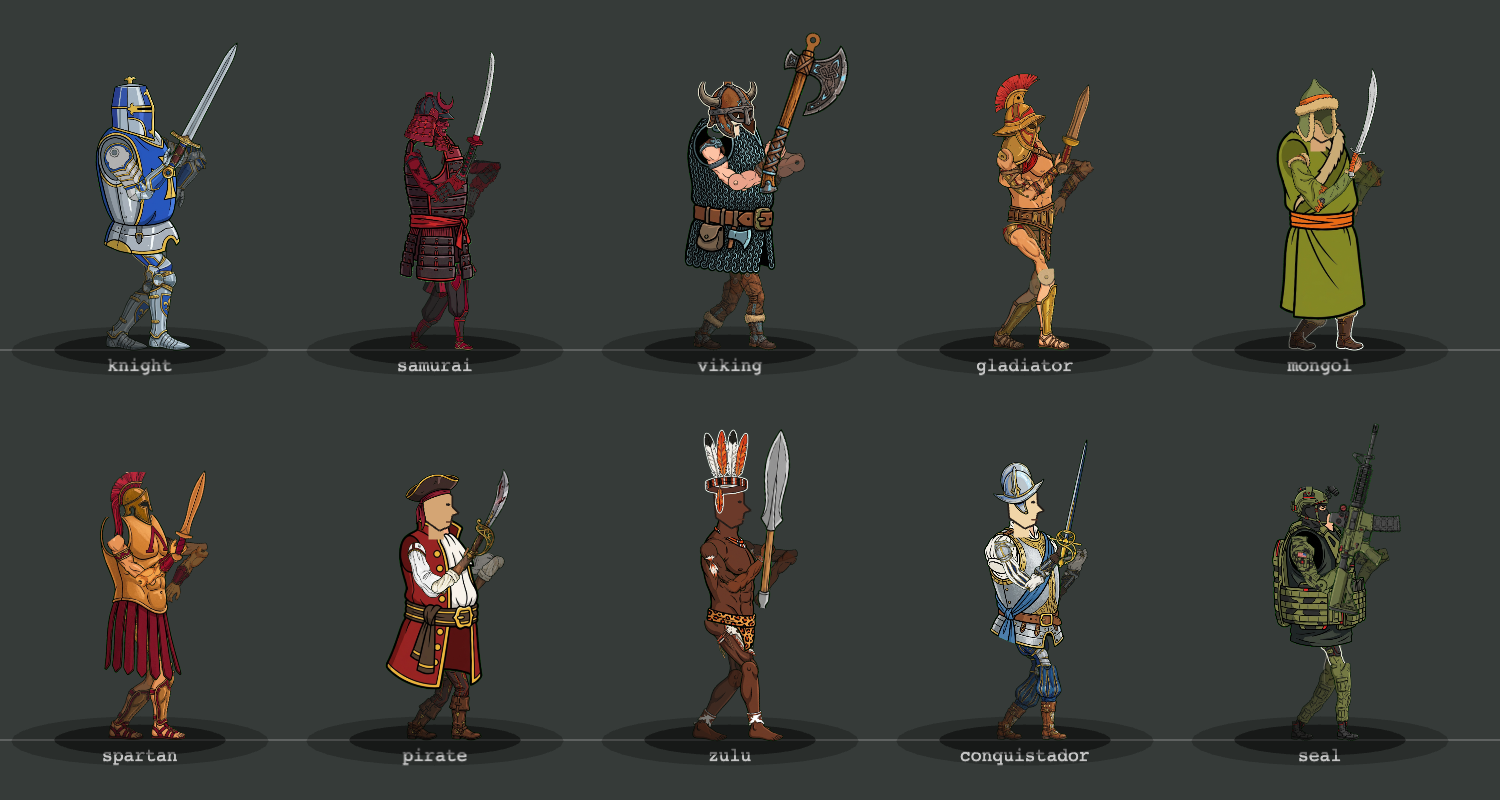
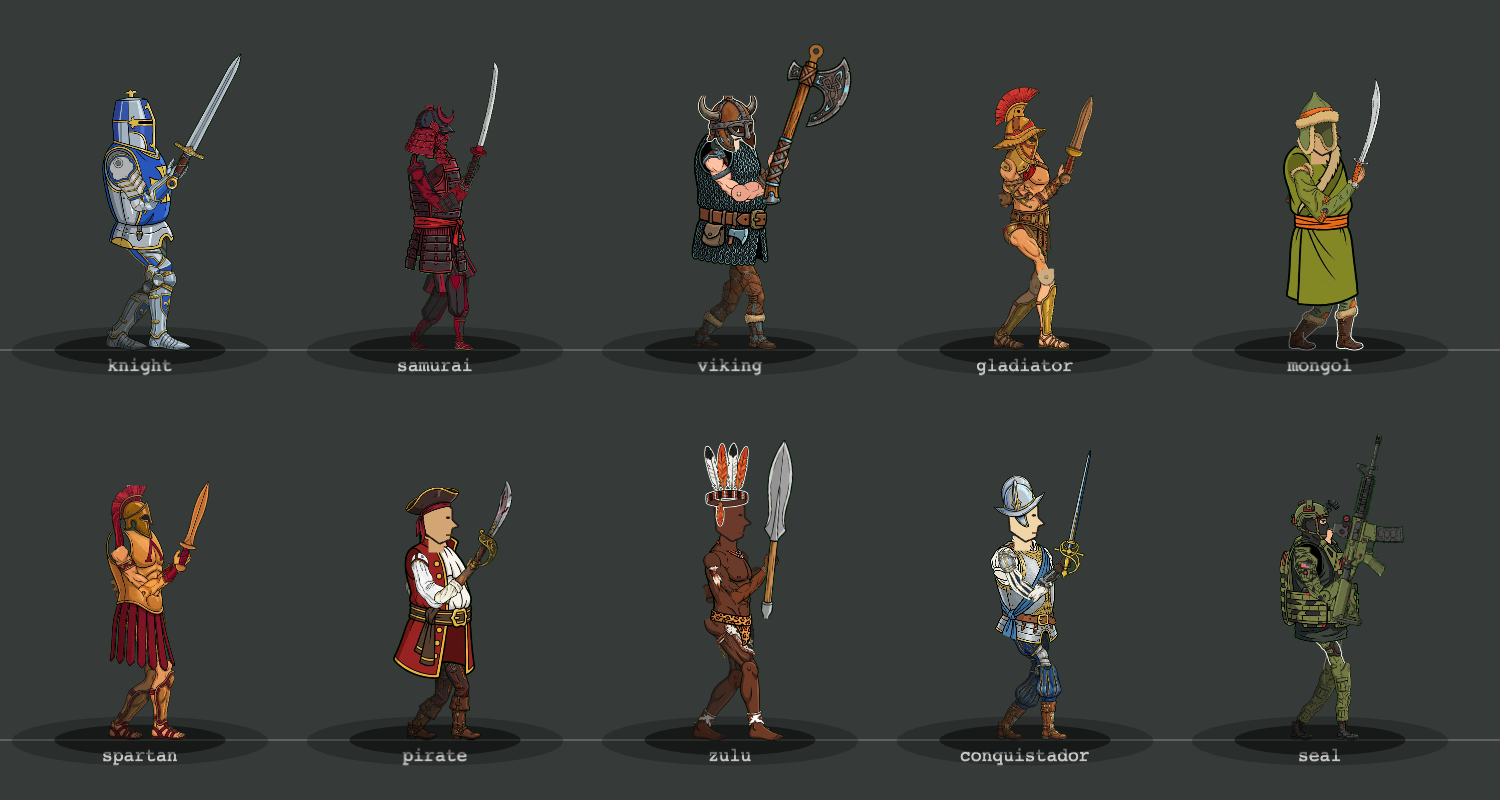
Refine warrior torso proportions and rear-arm guard (#7)

diff --git a/src/fighters/rigGeometry.js b/src/fighters/rigGeometry.js
@@ -1,7 +1,7 @@
 // Pure anatomy/attachment math shared by sprites, trails, tests and debugging.
 const RAD = Math.PI / 180;
 const clamp = (n, lo, hi) => Math.max(lo, Math.min(hi, n));
-export const RIG = { torso: 40, upperArm: 21, forearm: 22, thigh: 27, shin: 27, sole: 5 };
+export const RIG = { torso: 34, upperArm: 21, forearm: 22, thigh: 27, shin: 27, sole: 5 };
 
 // Fixed-length two-bone chain. Unreachable targets are clamped, never stretched.
 export function solveLimb(root, target, a, b, bend = 1) {
@@ -39,13 +39,17 @@ export function computeRigGeometry(pose, profile, x, baseY, dir, scale = 1) {
   }
   const torsoPoint = (dx, dy) => ({ x: hip.x + dx * Math.cos(lean) - dy * Math.sin(lean), y: hip.y + dx * Math.sin(lean) + dy * Math.cos(lean) });
   const neck = torsoPoint(0, -RIG.torso);
-  const frontShoulder = torsoPoint(-9, -32);
-  const backShoulder = torsoPoint(7, -32);
+  // Keep shoulder sockets on the resized torso rather than at the old width.
+  const frontShoulder = torsoPoint(-0.225 * RIG.torso, -0.8 * RIG.torso);
+  const backShoulder = torsoPoint(0.175 * RIG.torso, -0.8 * RIG.torso);
   const armAngle = (pose.armAngle || 0) * RAD;
   // Guard at chest height. Wind-up and follow-through extend from this guard.
   const handTarget = { x: frontShoulder.x + 25 + Math.sin(armAngle) * 15, y: frontShoulder.y + 13 - Math.cos(armAngle) * 12 - (pose.handLift || 0) };
   const frontArm = solveLimb(frontShoulder, handTarget, RIG.upperArm, RIG.forearm, 1);
-  const backArm = solveLimb(backShoulder, torsoPoint(15 - Math.sin(armAngle) * 4, -9), RIG.upperArm, RIG.forearm, -1);
+  // Rear hand guards the lower chest; the elbow hangs behind and below it,
+  // using the same anatomical bend direction as the weapon arm.
+  const backHandTarget = torsoPoint((0.375 - Math.sin(armAngle) * 0.1) * RIG.torso, -0.55 * RIG.torso);
+  const backArm = solveLimb(backShoulder, backHandTarget, RIG.upperArm, RIG.forearm, 1);
   const frontLeg = solveLimb({ x: hip.x - 5, y: hip.y }, frontTarget, RIG.thigh, RIG.shin, -1);
   const backLeg = solveLimb({ x: hip.x + 5, y: hip.y }, backTarget, RIG.thigh, RIG.shin, -1);
   const world = p => ({ x: x + p.x * dir * scale, y: baseY + p.y * scale });

diff --git a/tests/rigGeometry.test.js b/tests/rigGeometry.test.js
@@ -100,3 +100,20 @@ test('walking preserves animated leg spread for the missing-sprite vector fallba
     assert.ok(Math.max(...spread) - Math.min(...spread) > 10, 'vector feet must move throughout the walking clip');
   }
 });
+
+test('rear elbow stays tucked behind the guard hand and below it in torso space', () => {
+  for (const profile of Object.values(FIGHTER_PROFILES)) {
+    for (const state of states) for (let t = 0; t <= 1800; t += 50) for (const dir of [-1, 1]) {
+      const pose = sampleAnimationPose(state, t, profile);
+      const rig = computeRigGeometry(pose, profile, 200, 580, dir, profile.renderScale);
+      const lean = pose.torsoAngle * Math.PI / 180;
+      const local = p => {
+        const dx = (p.x - rig.hip.x) * dir, dy = p.y - rig.hip.y;
+        return { x: dx * Math.cos(lean) + dy * Math.sin(lean), y: -dx * Math.sin(lean) + dy * Math.cos(lean) };
+      };
+      const elbow = local(rig.backArm.joint), hand = local(rig.backArm.end);
+      assert.ok(elbow.x < hand.x, `${state}: rear elbow must stay behind its hand`);
+      assert.ok(elbow.y > hand.y, `${state}: rear elbow must hang below its guard hand`);
+    }
+  }
+});
